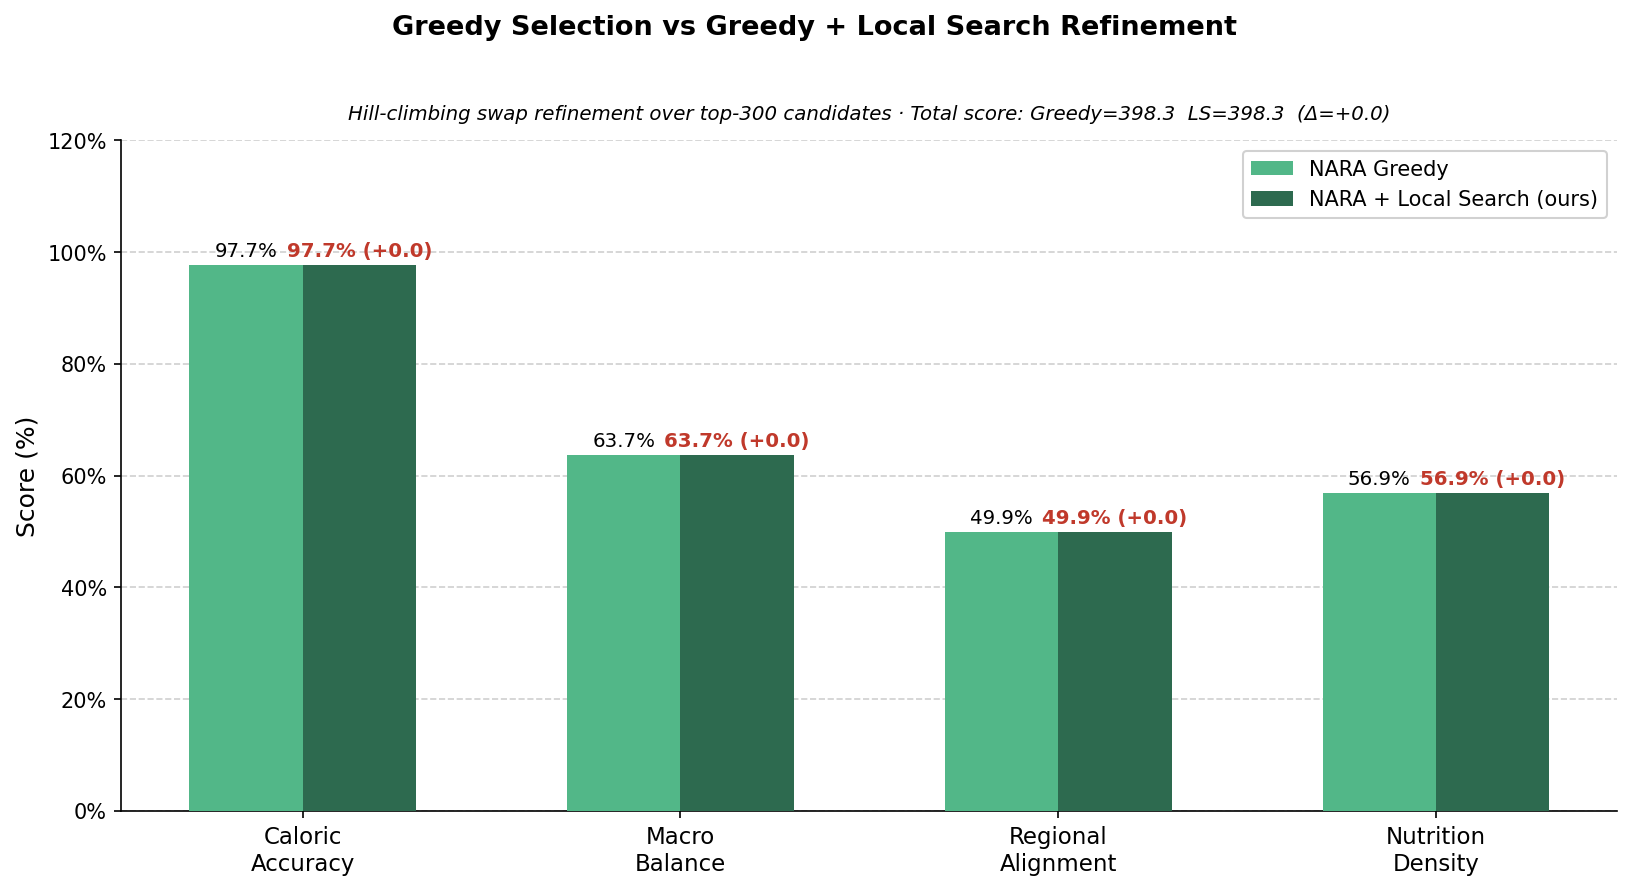
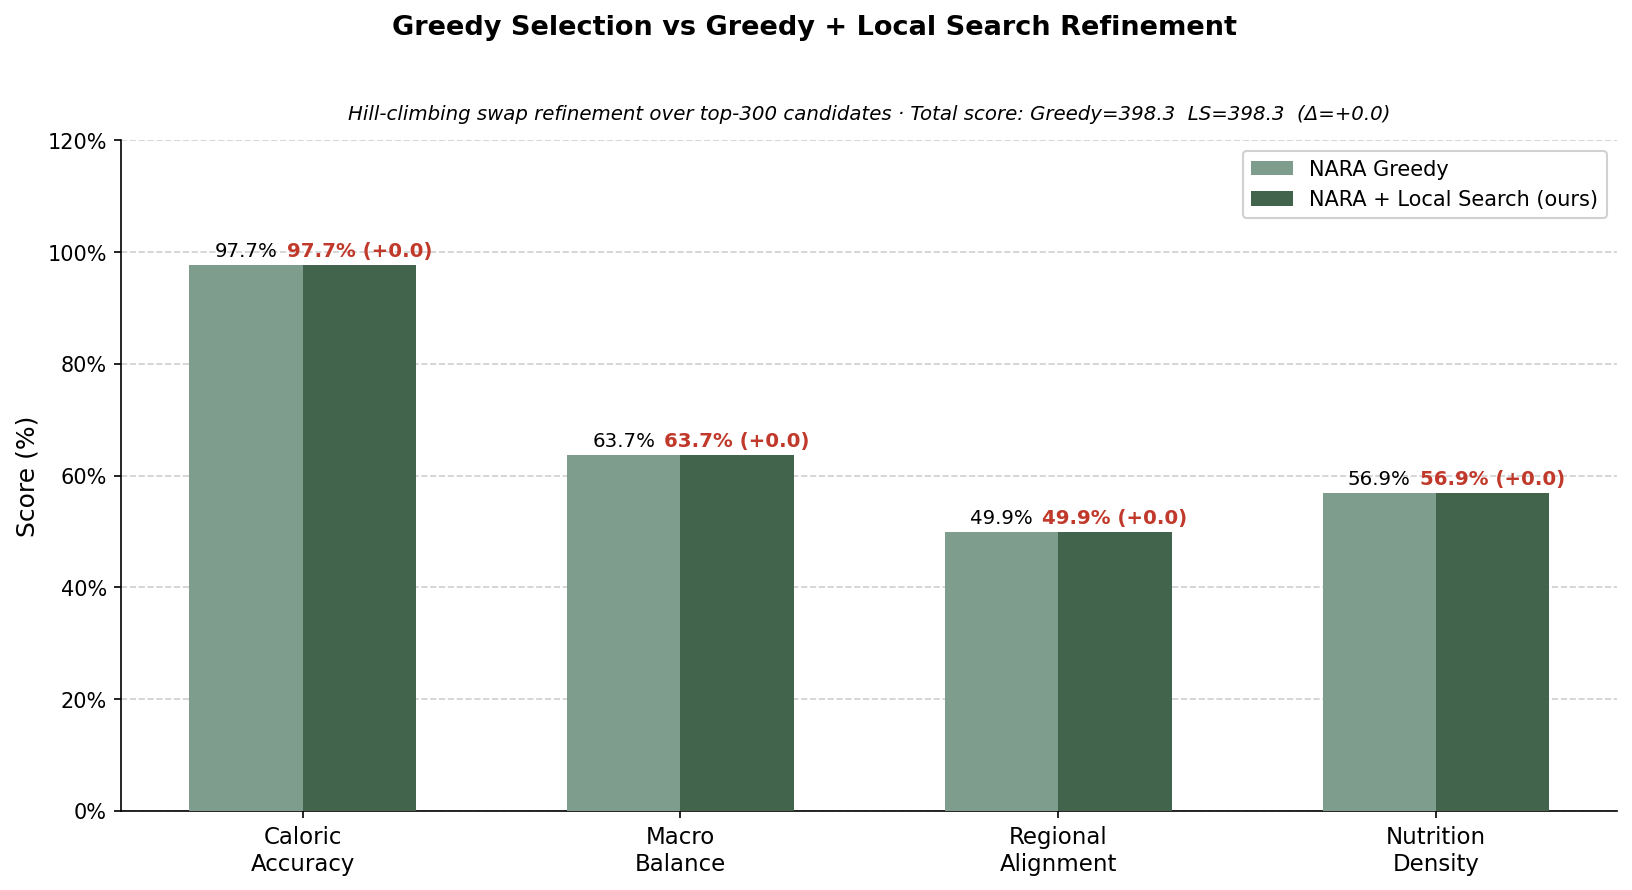
chore(charts): update color palette and add methodology/system architecture charts

diff --git a/ai-engine/docs/generate_charts.py b/ai-engine/docs/generate_charts.py
@@ -32,9 +32,9 @@ N_RANDOM = 500
 SEED = 42
 DAYS = ["Mon", "Tue", "Wed", "Thu", "Fri", "Sat", "Sun"]
 
-C_NARA   = '#2D6A4F'
-C_GREEDY = '#52B788'
-C_RANDOM = '#B7E4C7'
+C_NARA   = '#43644c'
+C_GREEDY = '#7e9d8d'
+C_RANDOM = '#bbcfc7'
 
 OUT_DIR = os.path.join(os.path.dirname(__file__), 'assets')
 
@@ -340,7 +340,7 @@ def main():
     for bar, ref in zip(b2g, g_cals):
         dev = (ref - t_cal) / t_cal * 100
         ax2.text(bar.get_x() + bar.get_width()/2, bar.get_height() + 3,
-                 f'{dev:+.1f}%', ha='center', va='bottom', fontsize=7.5, fontweight='bold', color='#1a5e38')
+                 f'{dev:+.1f}%', ha='center', va='bottom', fontsize=7.5, fontweight='bold', color='#43644c')
 
     # Target line + tolerance band
     ax2.axhline(t_cal, color='#e63946', linewidth=1.8, linestyle='--', zorder=4,
@@ -377,8 +377,8 @@ def main():
 
     x3  = np.arange(len(metrics3))
     w3  = 0.30
-    C_GN = '#52B788'   # medium green — greedy only
-    C_LS = '#2D6A4F'   # dark green   — greedy + LS
+    C_GN = '#7e9d8d'   # medium green — greedy only
+    C_LS = '#43644c'   # dark green   — greedy + LS
 
     fig3, ax3 = plt.subplots(figsize=(11, 6))
     fig3.patch.set_facecolor('white')
@@ -395,7 +395,7 @@ def main():
     for bar, gv in zip(b3l, gn_vals):
         h   = bar.get_height()
         d   = h - gv * 100
-        col = '#1a5e38' if d > 0 else '#c0392b'
+        col = '#43644c' if d > 0 else '#c0392b'
         ax3.text(bar.get_x() + bar.get_width()/2, h + 0.8,
                  f'{h:.1f}% ({d:+.1f})', ha='center', va='bottom',
                  fontsize=9.5, color=col, fontweight='bold')
